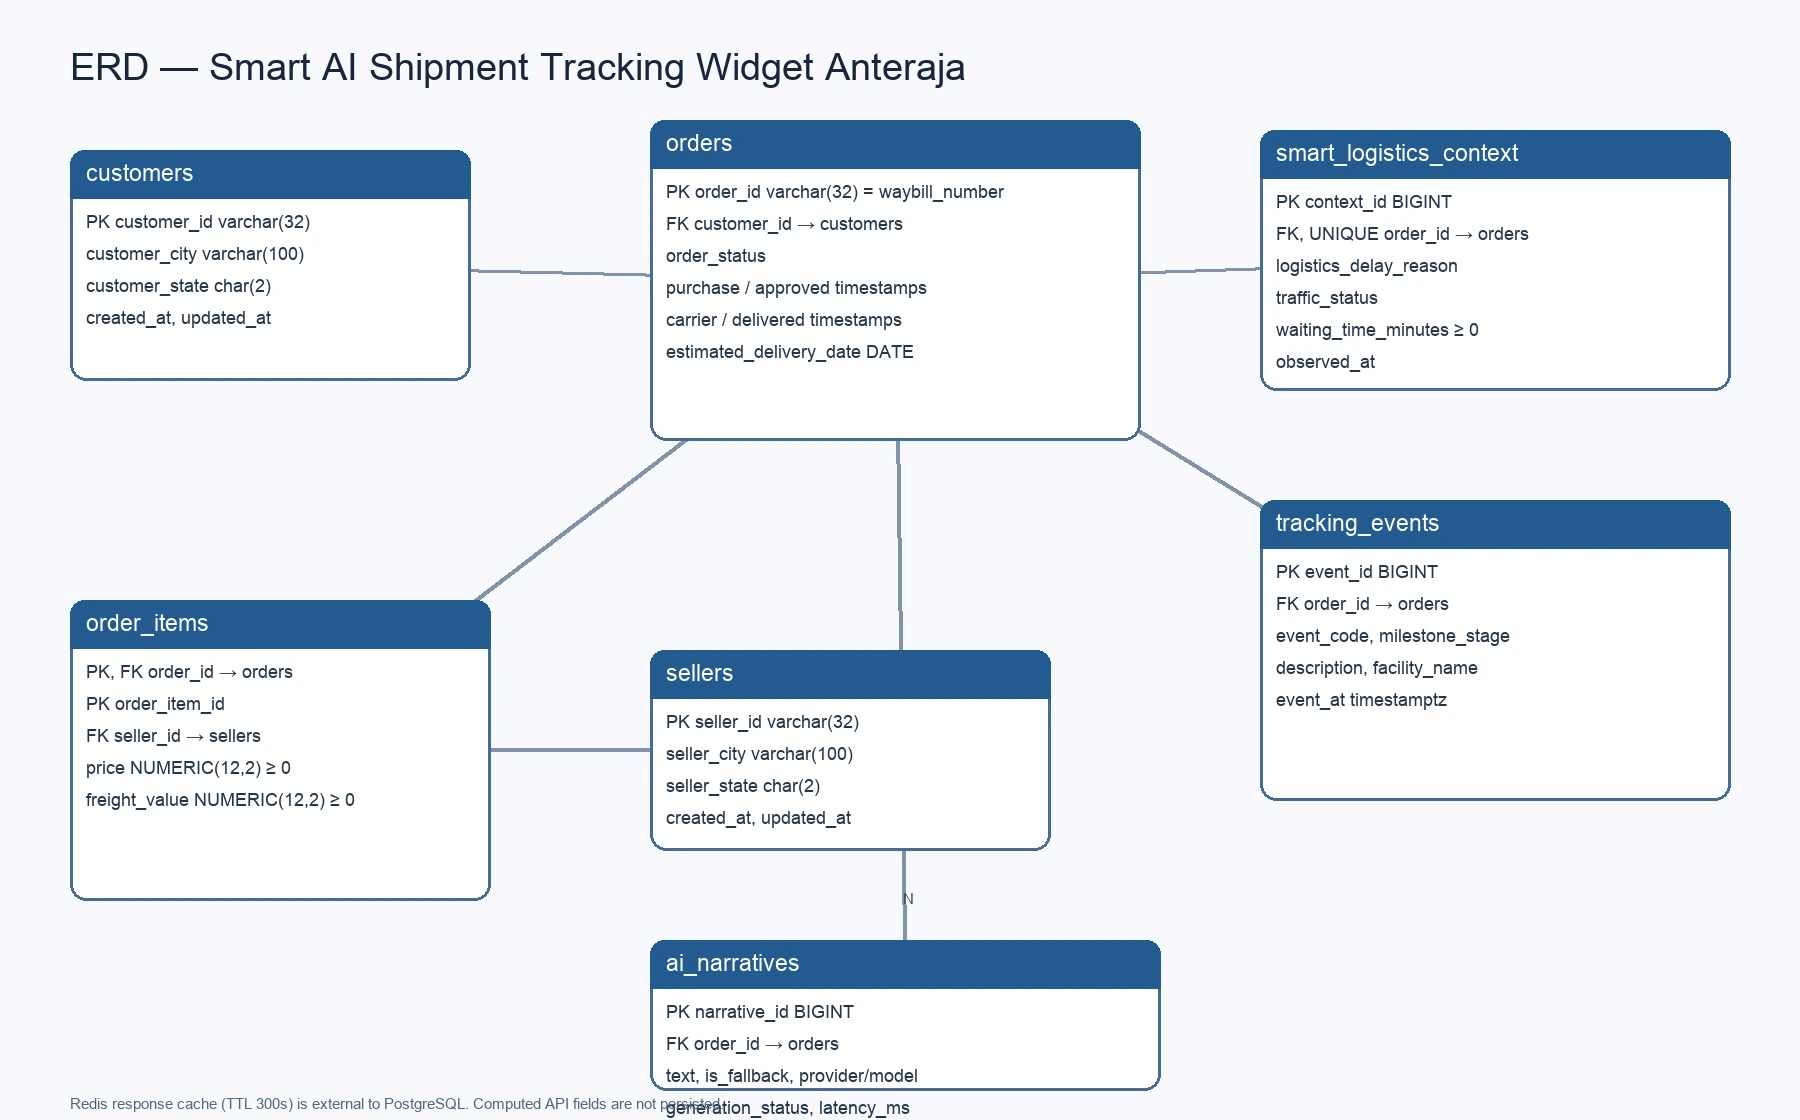
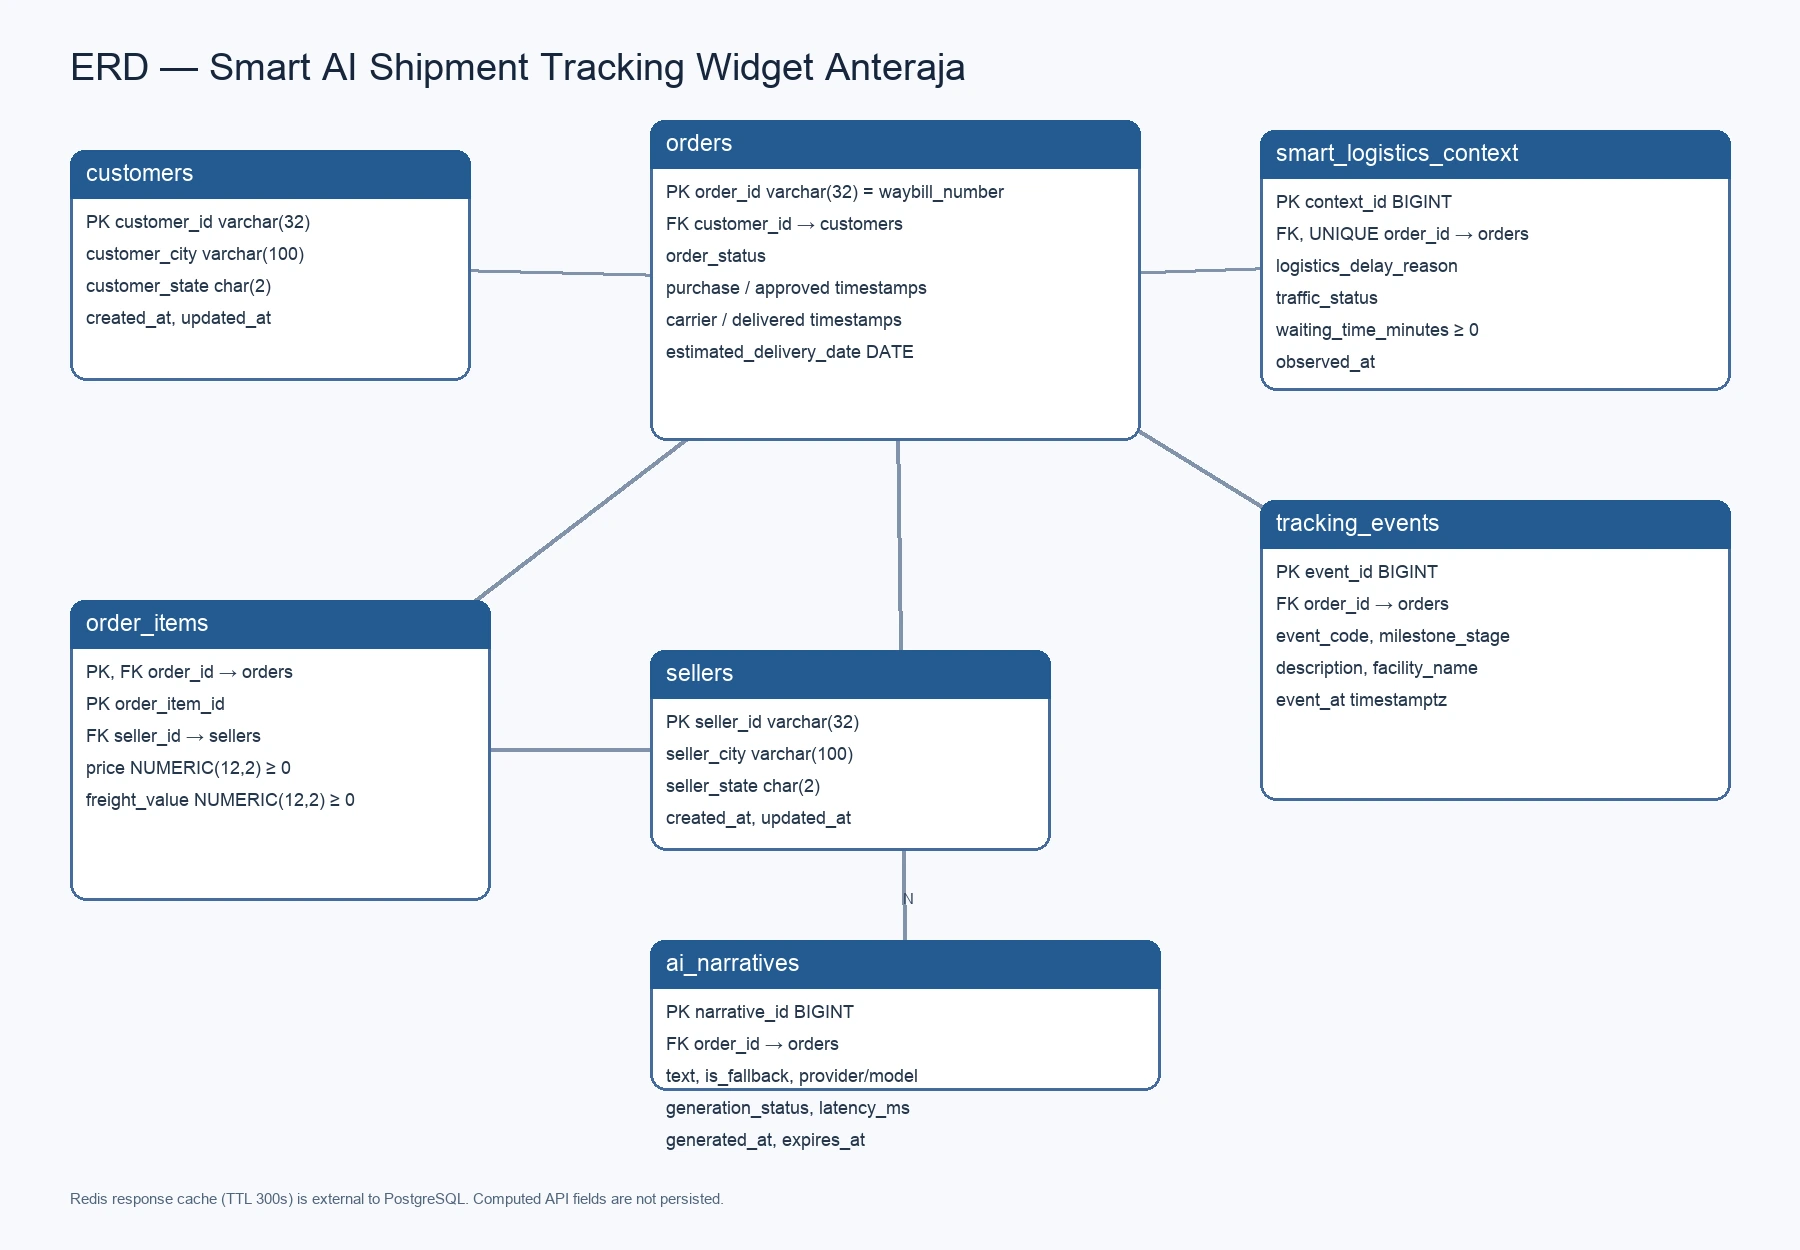
docs(database): update database documentation

diff --git a/docs/database/database-design.md b/docs/database/database-design.md
@@ -46,3 +46,106 @@ UI states tersedia di `docs/ui`: dashboard live tracking, status sukses in-trans
 - `docs/database/erd-smart-tracking.webp`: diagram ERD.
 
 Jalankan pada database kosong dengan `psql -d anteraja_tracking -f database/schema.sql`, lalu `psql -d anteraja_tracking -f database/sample_data.sql`.
+
+## Cara menggunakan
+
+1. Buat database PostgreSQL, misalnya `createdb anteraja_tracking`.
+2. Dari root repository, jalankan `psql -d anteraja_tracking -f database/schema.sql`.
+3. Isi contoh data dengan `psql -d anteraja_tracking -f database/sample_data.sql`.
+4. Cari resi menggunakan `SELECT * FROM tracking_summary WHERE waybill_number = '00010242fe8c5a6d1ba2dd792cb16214';`.
+5. Ambil timeline berdasarkan `order_id` dari `tracking_events`, urutkan `event_at ASC`. Gunakan event untuk tahap yang mempunyai timestamp; aturan fallback dari status order diterapkan di service jika event belum tersedia.
+6. Ambil narasi paling baru dari `ai_narratives` dengan urutan `generated_at DESC LIMIT 1`. Cache API aktif tetap dikelola backend Laravel/Redis.
+
+## Kamus tabel
+
+### `customers` - penerima
+
+| Kolom | Tipe | Keterangan |
+|---|---|---|
+| `customer_id` | `varchar(32)` | Primary key identifier customer dari dataset. |
+| `customer_city` | `varchar(100)` | Kota tujuan yang ditampilkan/disebut dalam narasi. |
+| `customer_state` | `char(2)` | Kode wilayah/state opsional dari dataset. |
+| `created_at`, `updated_at` | `timestamptz` | Waktu pencatatan/perubahan data master. |
+
+### `sellers` - pengirim/merchant
+
+| Kolom | Tipe | Keterangan |
+|---|---|---|
+| `seller_id` | `varchar(32)` | Primary key identifier pengirim dari dataset. |
+| `seller_city` | `varchar(100)` | Kota asal paket. |
+| `seller_state` | `char(2)` | Kode wilayah/state opsional. |
+| `created_at`, `updated_at` | `timestamptz` | Waktu pencatatan/perubahan data master. |
+
+### `orders` - transaksi/pengiriman dan nomor resi
+
+| Kolom | Tipe | Keterangan |
+|---|---|---|
+| `order_id` | `varchar(32)` | Primary key sekaligus `waybill_number`; format string mempertahankan nol di depan. |
+| `customer_id` | `varchar(32)` | Foreign key ke `customers`. |
+| `order_status` | `varchar(24)` | Status sumber; CHECK membatasi ke status yang disepakati. Sistem logistik yang berwenang memperbaruinya. |
+| `order_purchase_timestamp` | `timestamptz` | Waktu pesanan dibuat; milestone pertama. |
+| `order_approved_at` | `timestamptz` | Waktu persetujuan pesanan, jika tersedia. |
+| `order_delivered_carrier_date` | `timestamptz` | Waktu diserahkan ke kurir/hub; sumber milestone pickup. |
+| `order_delivered_customer_date` | `timestamptz` | Waktu diterima pelanggan; milestone delivered dan waktu tiba aktual. |
+| `order_estimated_delivery_date` | `date` | Tanggal ETA dari sumber. Jam tampilan dibuat service. |
+| `created_at`, `updated_at` | `timestamptz` | Audit pencatatan/perubahan. |
+
+### `order_items` - item transaksi
+
+Primary key gabungan (`order_id`, `order_item_id`) mendukung beberapa barang/seller dalam satu order.
+
+| Kolom | Tipe | Keterangan |
+|---|---|---|
+| `order_id` | `varchar(32)` | PK bagian dan FK ke `orders`; penghapusan order menghapus item. |
+| `order_item_id` | `smallint` | PK bagian nomor baris item, harus positif. |
+| `seller_id` | `varchar(32)` | FK ke `sellers`. |
+| `price` | `numeric(12,2)` | Nilai item, tidak boleh negatif. |
+| `freight_value` | `numeric(12,2)` | Ongkir item, tidak boleh negatif. Nol dapat menandai gratis ongkir sesuai aturan agregasi bisnis. |
+| `created_at` | `timestamptz` | Waktu data item dimasukkan. |
+
+### `smart_logistics_context` - konteks operasional terkini
+
+Satu baris maksimal per order pada versi MVP; `order_id` memiliki constraint UNIQUE.
+
+| Kolom | Tipe | Keterangan |
+|---|---|---|
+| `context_id` | `bigint identity` | Primary key internal. |
+| `order_id` | `varchar(32)` | FK unik ke `orders`. |
+| `logistics_delay_reason` | `varchar(80)` | `None`, `Weather`, `Traffic Jam`, `Mechanical Failure`, atau alasan operasional lain. |
+| `traffic_status` | `varchar(24)` | CHECK: `Clear`, `Moderate`, `Heavy`, `Detour`, `Unknown`. |
+| `waiting_time_minutes` | `integer` | Tambahan waktu estimasi, minimum nol. |
+| `observed_at` | `timestamptz` | Waktu kondisi tersebut diamati. |
+| `created_at`, `updated_at` | `timestamptz` | Audit pencatatan/perubahan konteks. |
+
+### `tracking_events` - riwayat perjalanan
+
+| Kolom | Tipe | Keterangan |
+|---|---|---|
+| `event_id` | `bigint identity` | Primary key event. |
+| `order_id` | `varchar(32)` | FK ke order terkait. |
+| `event_code` | `varchar(40)` | Kode event sumber yang stabil dan dapat ditelusuri. |
+| `milestone_stage` | `varchar(24)` | Tahap UI opsional: ORDER_CREATED, PICKUP_READY, IN_TRANSIT, DELIVERED, CANCELED. |
+| `description` | `varchar(300)` | Pesan aman untuk timeline. |
+| `facility_name` | `varchar(120)` | Nama hub/lokasi jika ada. |
+| `event_at` | `timestamptz` | Waktu kejadian; tampilkan dalam WIB dan urutkan kronologis. |
+| `created_at` | `timestamptz` | Waktu event dimasukkan ke database. |
+
+### `ai_narratives` - keluaran AI dan fallback
+
+Simpan riwayat per generasi agar keberhasilan, fallback, dan latensi dapat diaudit; bukan tempat cache jangka pendek.
+
+| Kolom | Tipe | Keterangan |
+|---|---|---|
+| `narrative_id` | `bigint identity` | Primary key. |
+| `order_id` | `varchar(32)` | FK ke order. |
+| `text` | `varchar(500)` | Narasi yang diberikan ke widget. Batas target 150-250 karakter diberlakukan di service/prompt. |
+| `is_fallback` | `boolean` | True jika dibuat oleh fallback rule-based. |
+| `provider`, `model` | `varchar` | Penyedia/model generator; provider default Gemini. |
+| `generation_status` | `varchar(16)` | CHECK: success, fallback, error. |
+| `latency_ms` | `integer` | Durasi generasi dalam milidetik, non-negatif. |
+| `generated_at` | `timestamptz` | Waktu narasi dibuat. |
+| `expires_at` | `timestamptz` | Opsional, masa berlaku bila backend ingin merekam kebijakan cache. |
+
+### `tracking_summary` - view respons pelacakan
+
+View ini menggabungkan order, customer, items, seller, dan konteks operasional. Kolom utama: `waybill_number`, `order_status`, timestamp milestone/ETA, `customer_city`, `seller_city`, total item/ongkir, `has_free_shipping`, data kendala, dan `has_delay`. Nilai delay dihitung; tidak perlu diinput atau diperbarui manual. View dibaca dengan query SELECT dan bukan target penulisan.

diff --git a/docs/database/database-usage.md b/docs/database/database-usage.md
@@ -1,0 +1,121 @@
+# Panduan Database PostgreSQL
+
+## Setup
+
+Jalankan pada database PostgreSQL kosong dari root repository:
+
+```sh
+createdb anteraja_tracking
+psql -d anteraja_tracking -f database/schema.sql
+psql -d anteraja_tracking -f database/sample_data.sql
+```
+
+Lihat ringkasan satu resi dengan:
+
+```sql
+SELECT * FROM tracking_summary
+WHERE waybill_number = '00010242fe8c5a6d1ba2dd792cb16214';
+```
+
+Timeline dapat dibaca dari `tracking_events` berdasarkan `order_id`, urutkan `event_at ASC`. Narasi terkini dapat dibaca dari `ai_narratives` dengan `generated_at DESC LIMIT 1`. Cache respons TTL 300 detik berada di Redis, bukan PostgreSQL.
+
+## Informasi tabel
+
+### `customers` - penerima
+
+| Kolom | Tipe | Informasi |
+|---|---|---|
+| `customer_id` | varchar(32), PK | ID customer dari dataset. |
+| `customer_city` | varchar(100) | Kota tujuan untuk rute dan narasi. |
+| `customer_state` | char(2) | Kode wilayah opsional. |
+| `created_at`, `updated_at` | timestamptz | Audit waktu data master. |
+
+### `sellers` - pengirim/merchant
+
+| Kolom | Tipe | Informasi |
+|---|---|---|
+| `seller_id` | varchar(32), PK | ID seller dari dataset. |
+| `seller_city` | varchar(100) | Kota asal untuk rute dan narasi. |
+| `seller_state` | char(2) | Kode wilayah opsional. |
+| `created_at`, `updated_at` | timestamptz | Audit waktu data master. |
+
+### `orders` - resi dan pengiriman
+
+| Kolom | Tipe | Informasi |
+|---|---|---|
+| `order_id` | varchar(32), PK | Nomor resi (`waybill_number`); string mempertahankan angka nol di depan. |
+| `customer_id` | varchar(32), FK | Relasi ke penerima. |
+| `order_status` | varchar(24) | Status sumber dengan CHECK constraint; diperbarui sistem logistik. |
+| `order_purchase_timestamp` | timestamptz | Waktu order dibuat / milestone awal. |
+| `order_approved_at` | timestamptz | Waktu persetujuan jika tersedia. |
+| `order_delivered_carrier_date` | timestamptz | Waktu serah ke kurir/hub. |
+| `order_delivered_customer_date` | timestamptz | Waktu tiba aktual, sumber milestone delivered. |
+| `order_estimated_delivery_date` | date | Tanggal estimasi sumber; jam default dibentuk oleh service. |
+| `created_at`, `updated_at` | timestamptz | Audit pencatatan/perubahan. |
+
+### `order_items` - item dan ongkos kirim
+
+PK gabungan: (`order_id`, `order_item_id`), sehingga order dapat berisi beberapa item/seller.
+
+| Kolom | Tipe | Informasi |
+|---|---|---|
+| `order_id` | varchar(32), PK/FK | Relasi ke `orders`; item terhapus bersama order. |
+| `order_item_id` | smallint, PK | Nomor baris item, harus positif. |
+| `seller_id` | varchar(32), FK | Relasi ke `sellers`. |
+| `price` | numeric(12,2) | Harga barang, tidak boleh negatif. |
+| `freight_value` | numeric(12,2) | Ongkir item, tidak boleh negatif. |
+| `created_at` | timestamptz | Waktu item dicatat. |
+
+### `smart_logistics_context` - kondisi operasional terkini
+
+Maksimal satu snapshot per order untuk kebutuhan MVP.
+
+| Kolom | Tipe | Informasi |
+|---|---|---|
+| `context_id` | bigint identity, PK | ID internal konteks. |
+| `order_id` | varchar(32), FK/UNIQUE | Relasi unik ke satu order. |
+| `logistics_delay_reason` | varchar(80) | None atau alasan kendala seperti Weather, Traffic Jam, Mechanical Failure. |
+| `traffic_status` | varchar(24) | Clear, Moderate, Heavy, Detour, atau Unknown. |
+| `waiting_time_minutes` | integer | Penyesuaian ETA dalam menit; minimum nol. |
+| `observed_at` | timestamptz | Waktu kondisi diamati. |
+| `created_at`, `updated_at` | timestamptz | Audit pencatatan/perubahan. |
+
+### `tracking_events` - riwayat timeline
+
+| Kolom | Tipe | Informasi |
+|---|---|---|
+| `event_id` | bigint identity, PK | ID kejadian. |
+| `order_id` | varchar(32), FK | Order yang mengalami kejadian. |
+| `event_code` | varchar(40) | Kode kejadian operasional. |
+| `milestone_stage` | varchar(24) | ORDER_CREATED, PICKUP_READY, IN_TRANSIT, DELIVERED, CANCELED. |
+| `description` | varchar(300) | Keterangan untuk ditampilkan. |
+| `facility_name` | varchar(120) | Nama fasilitas jika tersedia. |
+| `event_at` | timestamptz | Waktu kejadian; urutkan kronologis dan format ke WIB. |
+| `created_at` | timestamptz | Waktu event direkam di database. |
+
+### `ai_narratives` - narasi dan telemetry AI
+
+| Kolom | Tipe | Informasi |
+|---|---|---|
+| `narrative_id` | bigint identity, PK | ID hasil generasi. |
+| `order_id` | varchar(32), FK | Order terkait. |
+| `text` | varchar(500) | Teks narasi; target 150-250 karakter divalidasi di service. |
+| `is_fallback` | boolean | True jika teks dibuat fallback rule-based. |
+| `provider`, `model` | varchar | Sumber/model generasi. |
+| `generation_status` | varchar(16) | success, fallback, atau error. |
+| `latency_ms` | integer | Latensi generasi, non-negatif. |
+| `generated_at` | timestamptz | Waktu dibuat. |
+| `expires_at` | timestamptz | Waktu kedaluwarsa opsional untuk kebijakan cache. |
+
+### `tracking_summary` - view ringkasan tracking
+
+View baca gabungan order, customer, item/seller, dan konteks operasional. Menyediakan nomor resi, status/tanggal, kota asal/tujuan, total harga/ongkir, `has_free_shipping`, data kendala, serta `has_delay`. Nilai turunan tidak ditulis manual; view bukan target penulisan.
+
+## Aturan integrasi
+
+- `order_id` menjadi nomor resi unik string 32 karakter, sesuai FRD F-01.
+- `shipped` dan `in_transit` sama-sama dipetakan service ke milestone transit; status asal tetap disimpan.
+- `has_delay` true jika alasan bukan `None` atau traffic bernilai `Heavy`/`Detour`.
+- Timestamp disimpan dengan zona waktu; service mengubah tampilan milestone ke WIB.
+- Jika butuh banyak snapshot konteks per order, hapus UNIQUE pada `order_id` dan gunakan `observed_at` untuk memilih snapshot terbaru.
+- `has_delay`, `current_milestone_stage`, format ETA, state loading, dan error HTTP dihitung/ditangani service/UI, bukan tabel.
